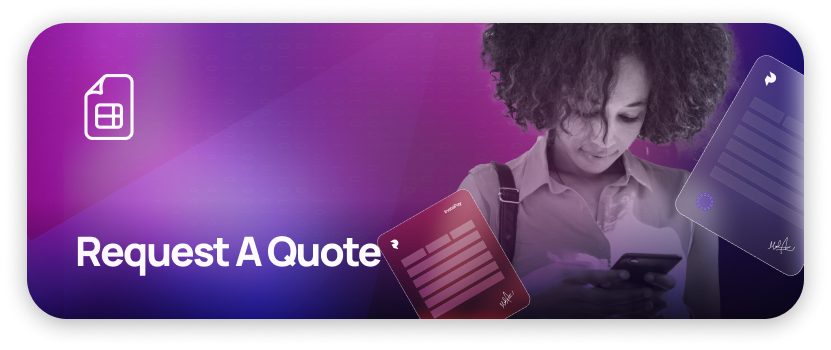
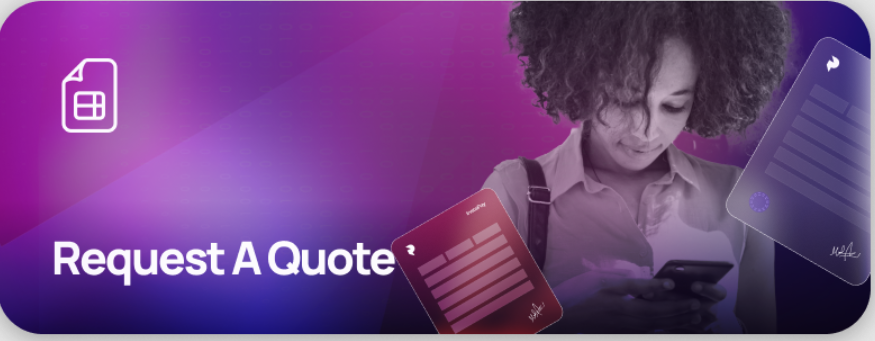
fix - image ui issue on payments main page

diff --git a/src/Components/PaymentsNewer/index.jsx b/src/Components/PaymentsNewer/index.jsx
@@ -342,14 +342,14 @@ const PaymentsNewer = () => {
                                                         userDetails?.level?.wallet_to_wallet?.crypto_to_fiat
                                                 )
                                                 &&
-                                                <button data-action="send_crypto" onClick={() => {
+                                                <button data-action="send_crypto" style={{ background: `url(${sc})`, padding: "0px" }} onClick={() => {
                                                     setActionType("send_crypto")
                                                     setCurrentFlow("send_crypto")
                                                 }}>
-                                                    <img src={sc} alt="payment types" />
+                                                    {/* <img src={sc} alt="payment types" /> */}
                                                 </button>
                                             }
-                                            <button className={styles.disabled} disabled data-action="placeholder">
+                                            <button className={styles.disabled} style={{padding: "0px"}} disabled data-action="placeholder">
                                                 <img src={rq} alt="payment types" />
                                             </button>
                                         </>

diff --git a/src/Components/HomeNewUpdated/styles/CurConversion.module.css b/src/Components/HomeNewUpdated/styles/CurConversion.module.css
@@ -35,7 +35,7 @@
 .input_con select {
     font-size: 1.5rem;
     font-weight: 700;
-    width: 36px;
+    width: fit-content;
     height: 36px;
     text-align: center;
 }
